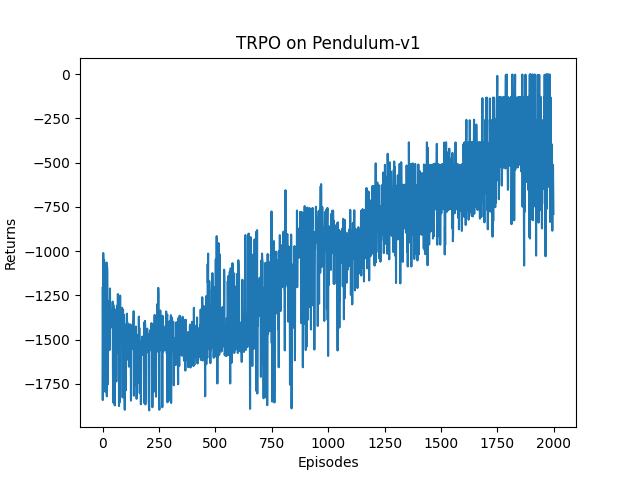
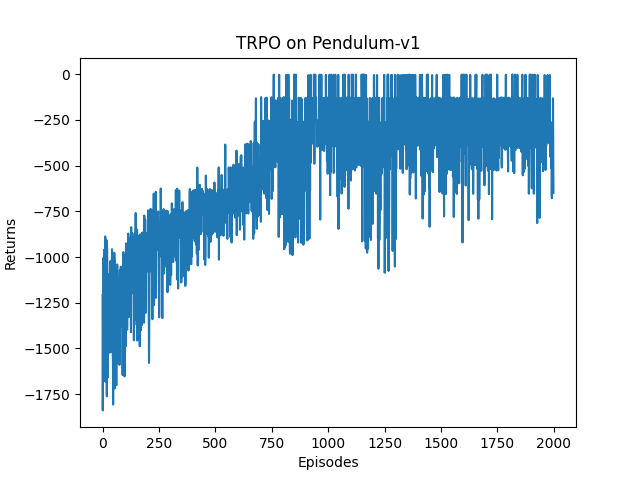
update ch11

diff --git a/ch11/algo.py b/ch11/algo.py
@@ -269,7 +269,7 @@ class TRPOContinuous:
         rewards = torch.tensor(transition_dict['rewards'], dtype=torch.float).view(-1, 1).to(self.device)
         next_states = torch.tensor(transition_dict['next_states'], dtype=torch.float).to(self.device)
         dones = torch.tensor(transition_dict['dones'], dtype=torch.float).view(-1, 1).to(self.device)
-
+        rewards = (rewards + 8) / 8
         td_target = rewards + self.gamma * self.critic(next_states) * (1 - dones)
         td_delta =  td_target - self.critic(states)
         advantage = compute_advantage(self.gamma, self.lmbda, td_delta.cpu()).to(self.device)
